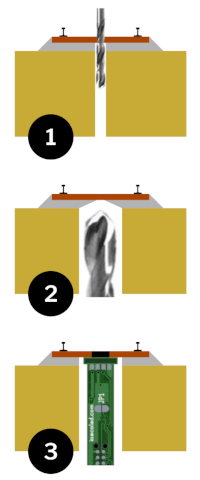
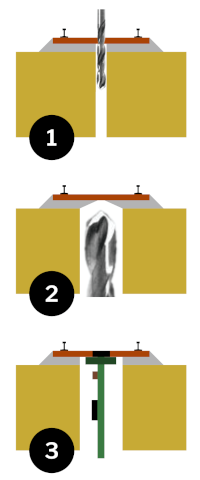
Updated squealer install diagram.

diff --git a/docs/stylesheets/ise.css b/docs/stylesheets/ise.css
@@ -22,3 +22,7 @@
 .md-typeset hr {
     border-bottom: 0.1rem solid #777;
 }
+
+.md-nav__item--nested {
+    margin-top: 1.2em;
+}
